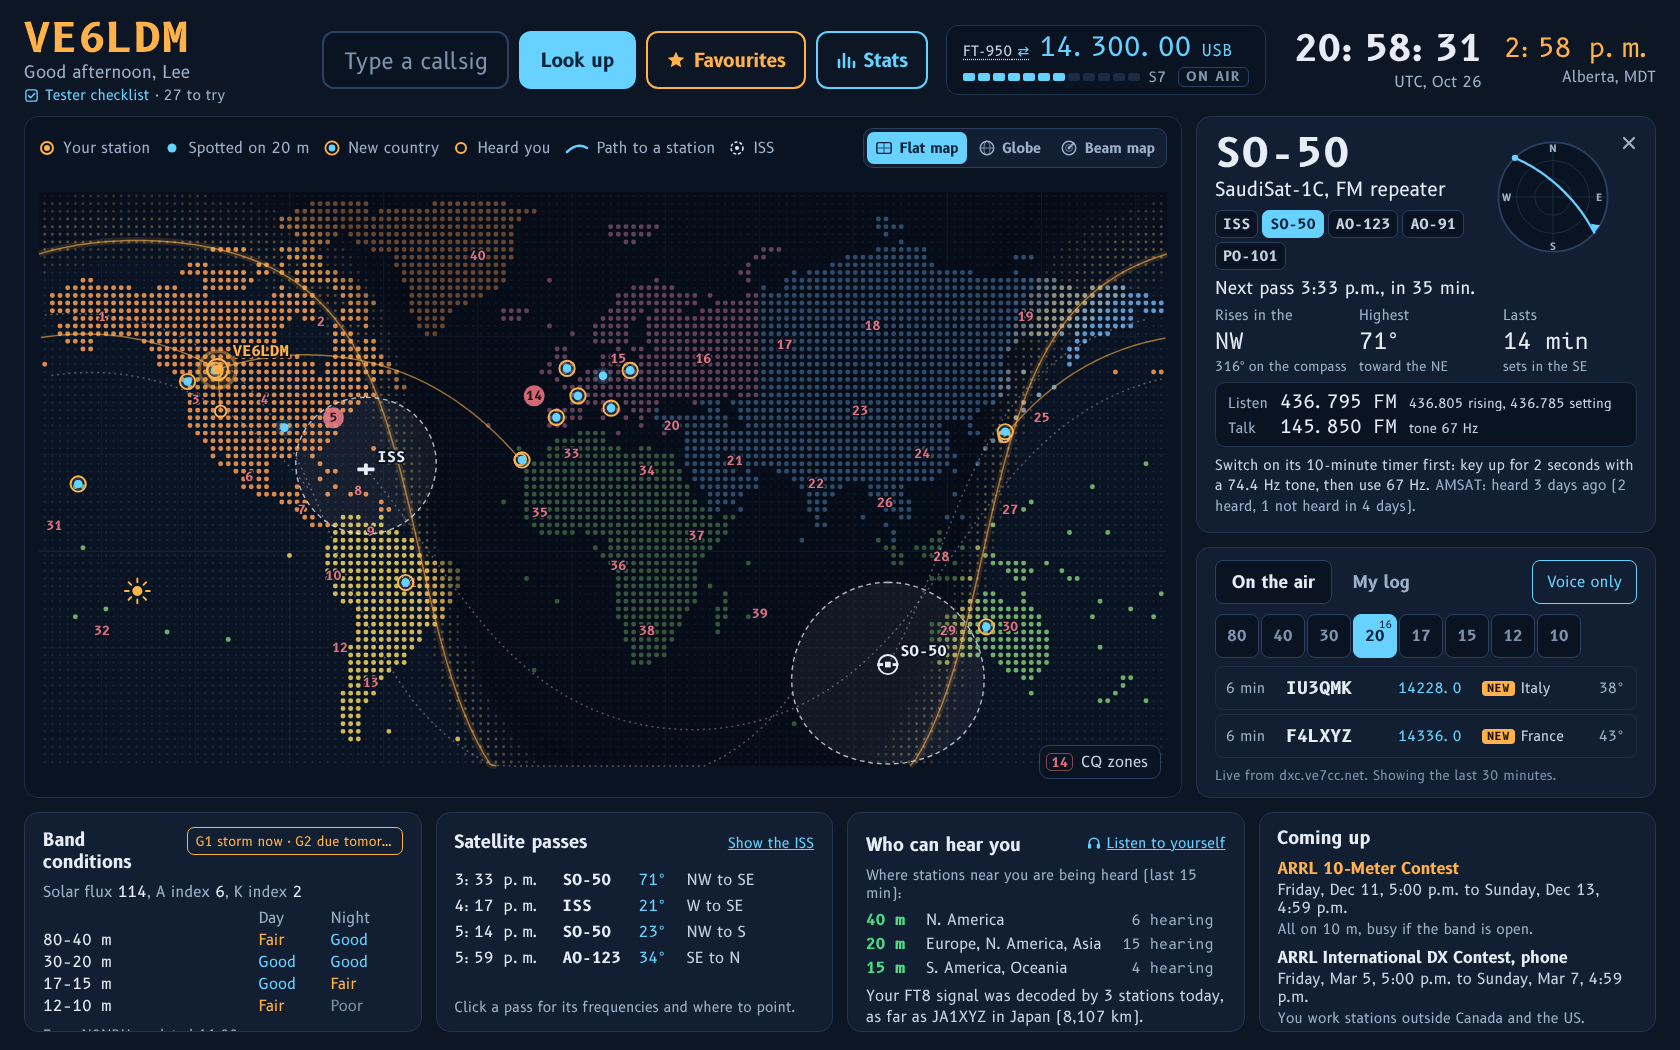
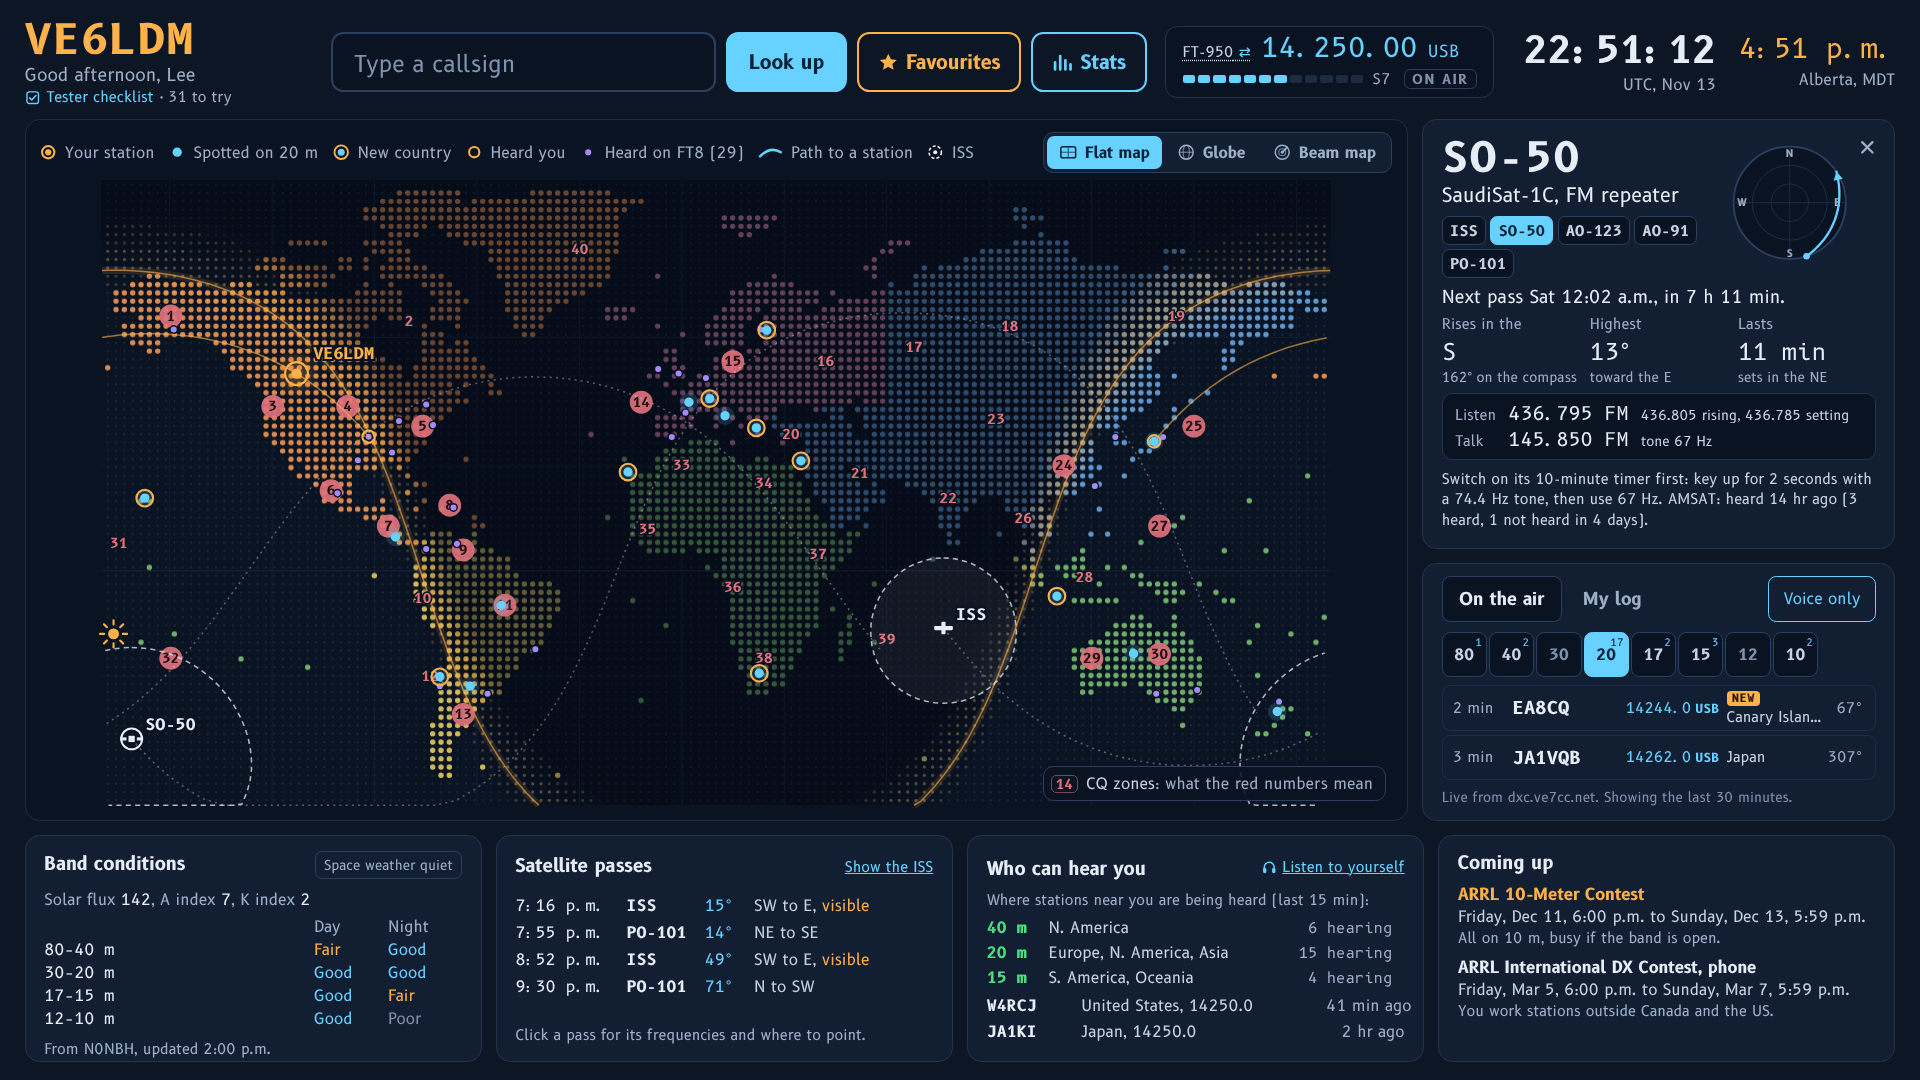
README: new screenshots for 0.15.10
New screenshots from a test run of 0.15.10 at the station's own screen size
(1920 x 1080): the station display with the stations WSJT-X heard on FT8, the
globe, the beam map (now with its list of headings), a satellite pass, the
stats, the welcome banner and the tester checklist (31 items now), plus a new
one of the waterfall.

Sample data, with the station at the middle of grid square DO32. The satellite
passes are real ones, worked out from that day's orbits.

Claude-Session: https://claude.ai/code/session_01VLM3fuJoHWifFb6hPVT5Mh

diff --git a/README.md b/README.md
@@ -8,7 +8,7 @@ conditions, satellite passes, alerts and your logbook.
 It was built for **VE6LDM**, Lee's station in central Alberta, Canada, as a gift from his son
 Travis. The code was written by Claude, Anthropic's AI model, working with Travis.
 
-![The station display: live spots on the map, a station looked up with the path and beam heading](docs/screenshots/hud.png)
+![The station display: live spots on the map, a station looked up with the path and beam heading, and the stations WSJT-X heard on FT8 as small violet dots](docs/screenshots/hud.png)
 
 > **Work VE6LDM!** Lee operates SSB on the HF bands (80 to 10 metres) from grid square DO32,
 > near Red Deer, Alberta. If you hear him, give him a call. He'd be glad of the contact.
@@ -93,6 +93,9 @@ Travis. The code was written by Claude, Anthropic's AI model, working with Travi
 
 <table>
 <tr>
+<td colspan="2"><img src="docs/screenshots/waterfall.png" alt="The waterfall: the band around the radio's frequency, with DX spots' callsigns on their signals"><br>The waterfall on the computer's own screen: the band around the radio's dial, with DX spots' callsigns on their signals</td>
+</tr>
+<tr>
 <td width="50%"><img src="docs/screenshots/globe.png" alt="Globe view showing the path to a station"><br>The globe swings round to show the path</td>
 <td width="50%"><img src="docs/screenshots/beam.png" alt="Beam map centred on the station"><br>The beam map: the angle from the middle is the beam heading</td>
 </tr>
@@ -106,7 +109,9 @@ Travis. The code was written by Claude, Anthropic's AI model, working with Travi
 </tr>
 </table>
 
-The screenshots are from a test run with sample spots and a sample log.
+The screenshots are from a test run with sample data: spots, a log, band conditions, AMSAT's reports, and what
+PSK Reporter and WSJT-X heard. The satellite passes are real ones for the middle of grid square DO32, worked out
+from that day's orbits.
 
 ## What you need
 
